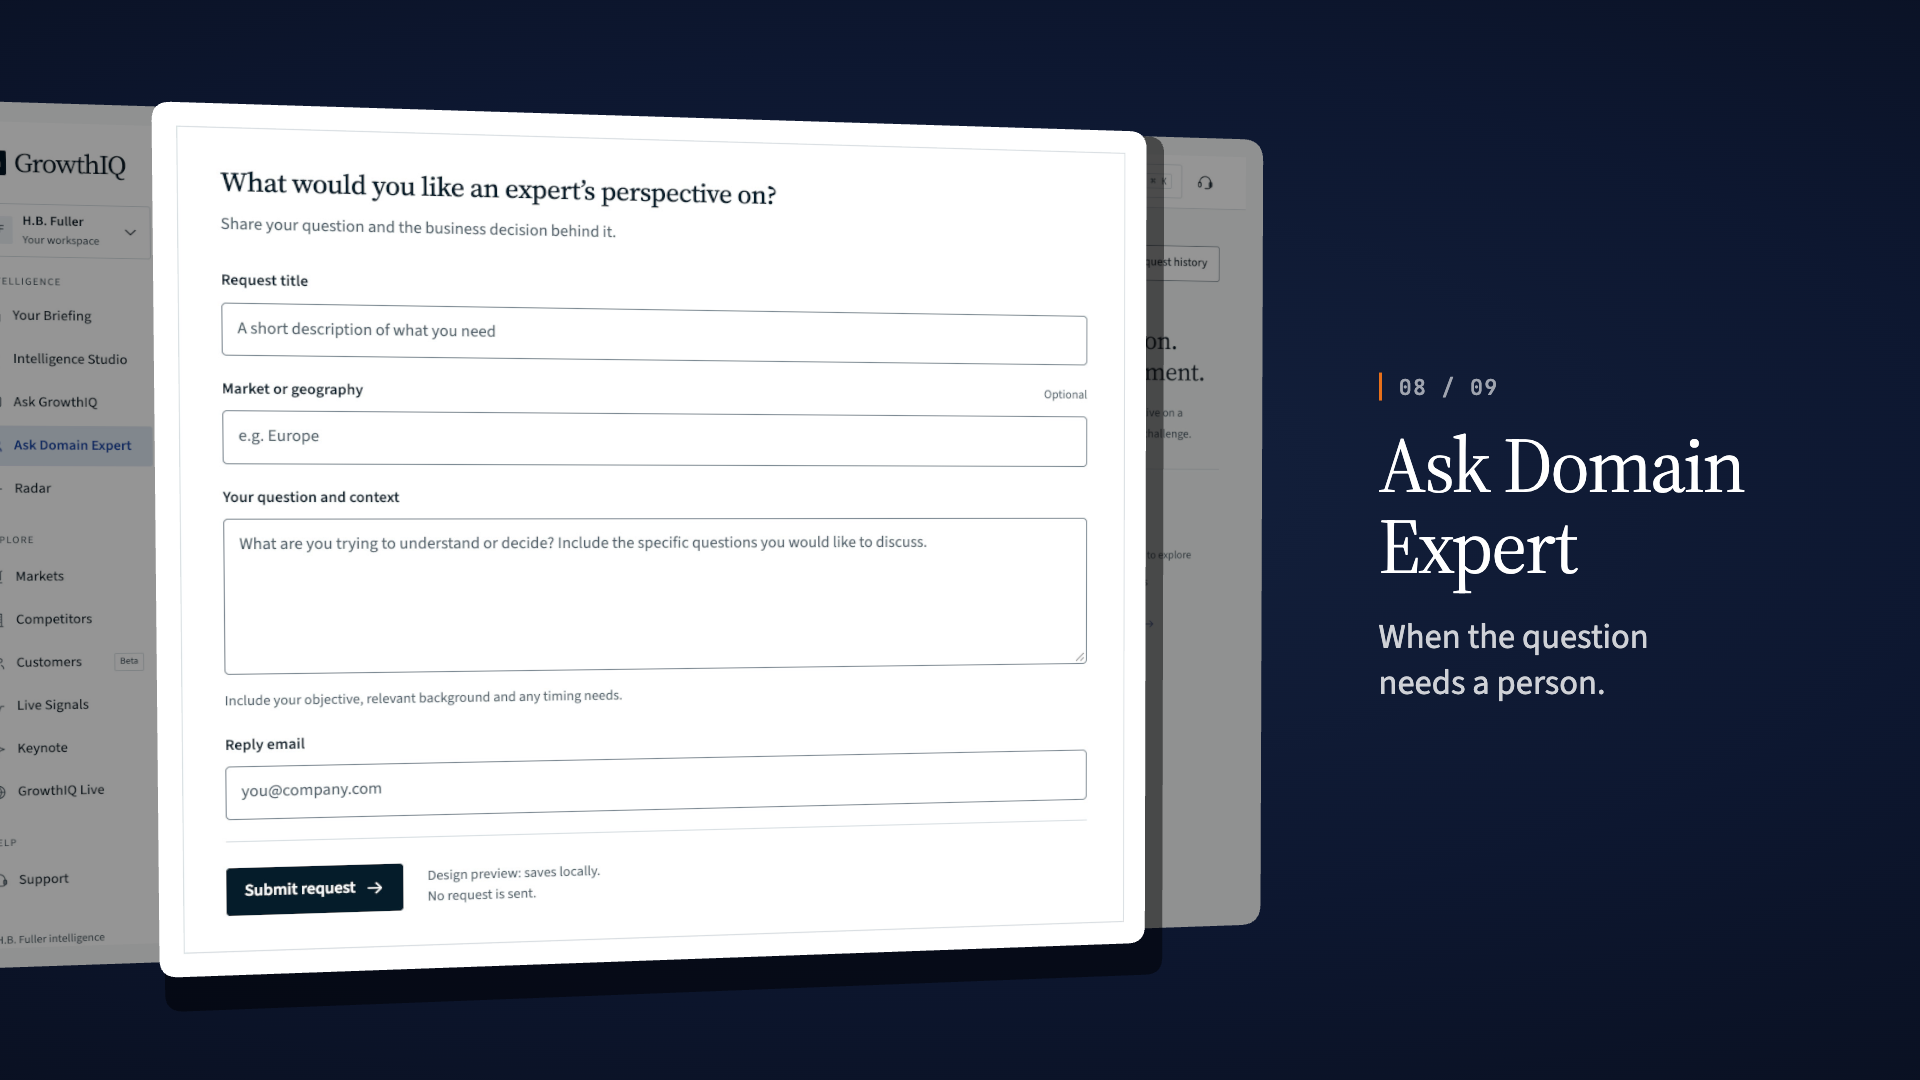
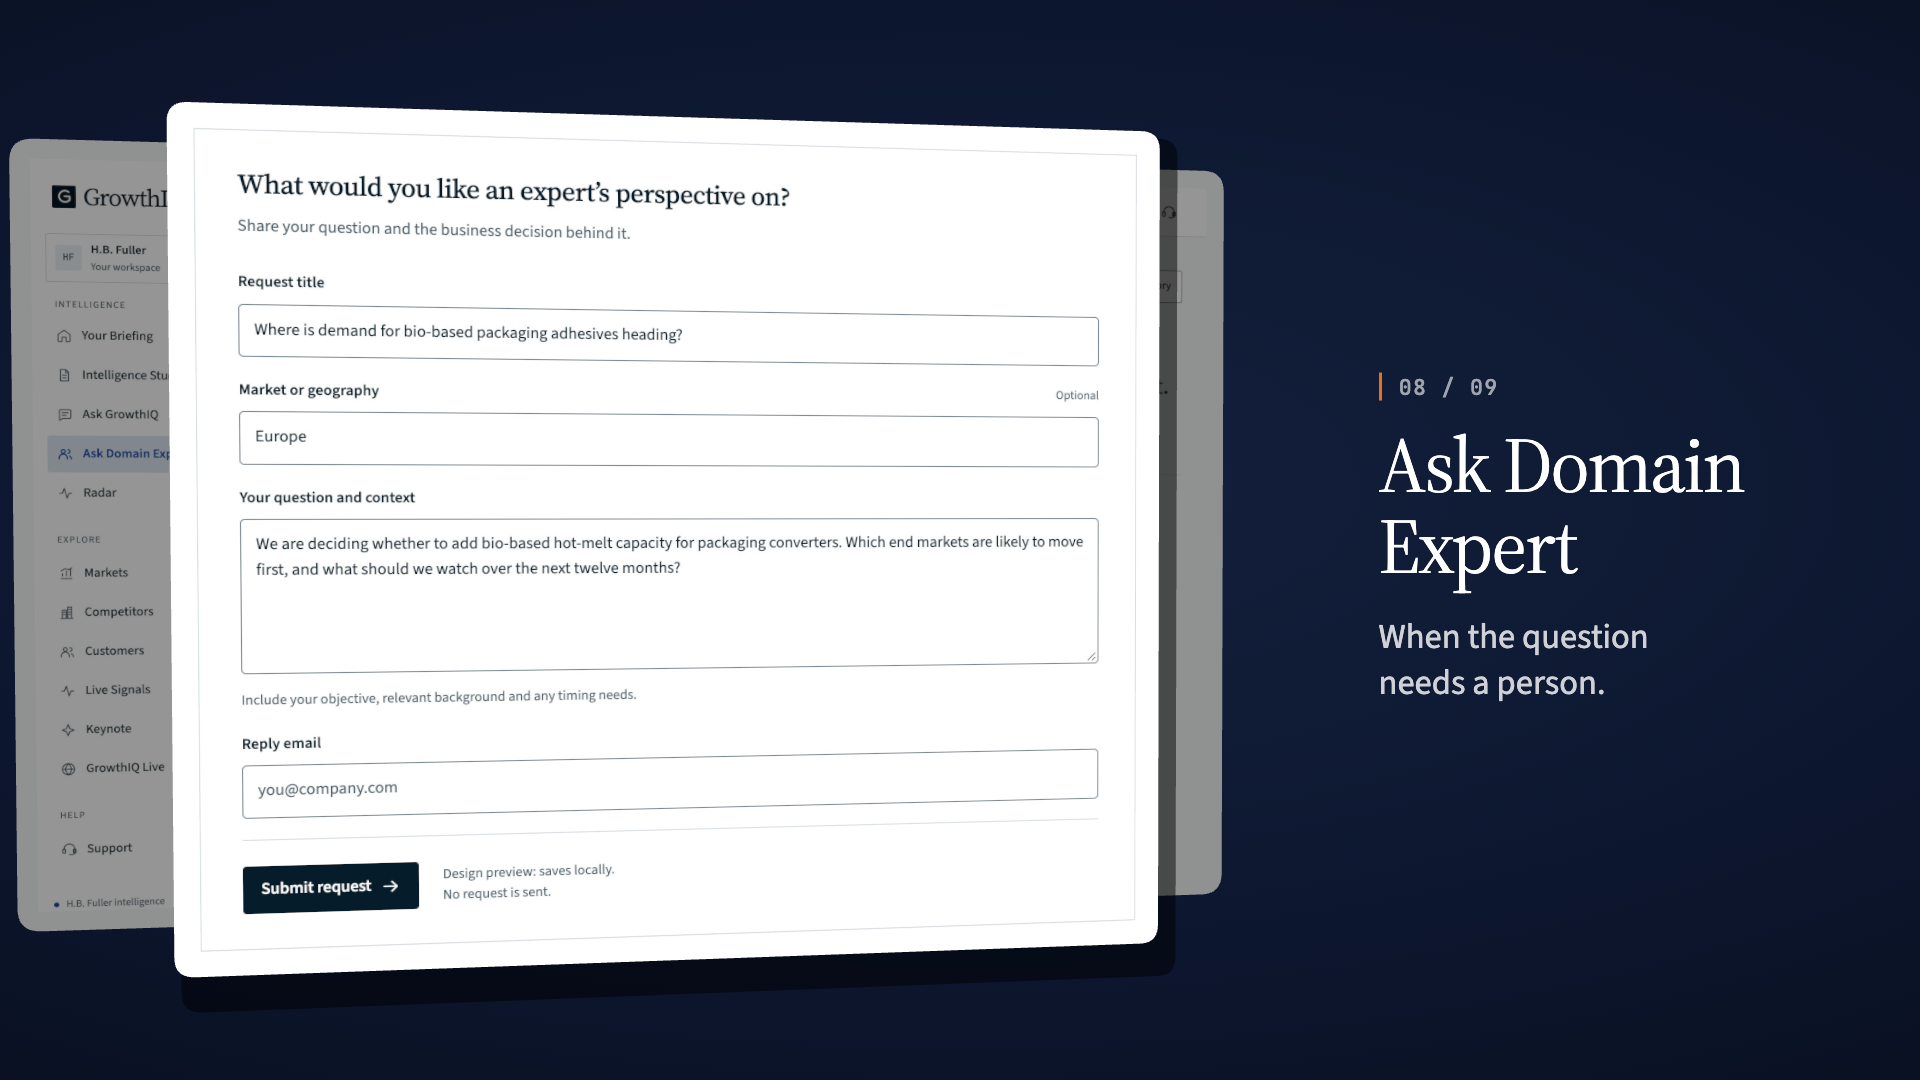
Fix the reel's rough edges: cards fit the frame, stronger shots, filled form
Cards are sized to sit wholly inside the frame beside the caption.
Benchmarking lifts the financial table and slides across its metrics,
Studio slides across its three starting points, and the Ask Domain Expert
capture has example text typed into the form (nothing is submitted).

diff --git a/reel/Scene.jsx b/reel/Scene.jsx
@@ -3,7 +3,8 @@ import {Canvas, useFrame, useLoader} from '@react-three/fiber';
 import * as THREE from 'three';
 import {shots, wall, close, images, phase, span, mix, inOut, out} from './shots.mjs';
 
-const CARD_HEIGHT = 4.6, PIXELS = [1440, 900], CARD_COLOUR = '#f7f8f9';
+// Sized so the whole card, with its margin, fits in the frame beside the caption.
+const CARD_HEIGHT = 4.2, PIXELS = [1440, 900], CARD_COLOUR = '#f7f8f9';
 // Even margins, in scene units: around the screen on its card, and around a lifted region.
 const CARD_MARGIN = 0.11, PANEL_MARGIN = 0.1, RADIUS = 0.08;
 // The largest a lifted panel may grow to, before perspective.
@@ -39,7 +40,7 @@ function Shot({shot, texture, beat}) {
     const p = phase(shot, beat());
     group.current.visible = p.visible;
     if (!p.visible) return;
-    const side = shot.side, drift = Math.sin(clock.elapsedTime * 0.5 + shot.from) * 0.02, x = side * 1.9, tilt = -side * 0.13;
+    const side = shot.side, drift = Math.sin(clock.elapsedTime * 0.5 + shot.from) * 0.02, x = side * 1.83, tilt = -side * 0.13;
     // Three ways to arrive; every shot leaves the same way, off to the side it came to rest on.
     const from = shot.entry === 'rise' ? {position: [x, -8, -1], rotation: [0.7, tilt, 0]} : shot.entry === 'depth' ? {position: [x * 0.4, 0.6, -26], rotation: [0.02, tilt * 3, 0]} : {position: [side * 15, 0, -3], rotation: [0.02, side * 1.0, 0]};
     const to = {position: [x, 0, 0], rotation: [0.02, tilt, 0]};
